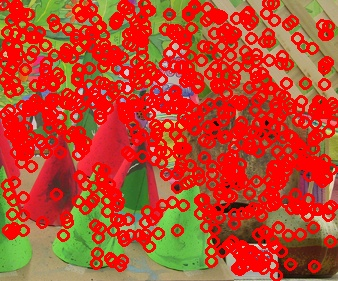
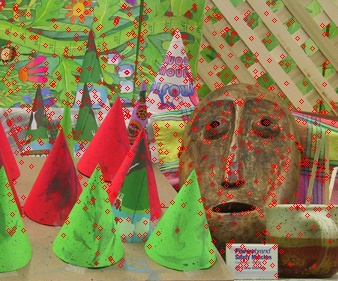
sift finished

diff --git a/inc/stereoVisionFunc.hpp b/inc/stereoVisionFunc.hpp
@@ -46,7 +46,7 @@ class StereoVision {
             Mat img1_with_points = img1.clone();
             // draw the feature points on the image
             for (int i = 0; i < points.size(); i++) {
-                circle(img1_with_points, points[i], 5, Scalar(0, 0, 255), 2);
+                circle(img1_with_points, points[i], 2, Scalar(0, 0, 255), 1);
             }
             // return the image with feature points marked on it
             cout<<"<<< drawFeaturePoints() returned"<<endl;

diff --git a/README.md b/README.md
@@ -33,6 +33,14 @@ Exploring stereo vision, by finding correspondences between left and right image
 * Scale the disparity map to the range [0, 255] and save the output as a grayscale image.
 
 ## Results
-To be added...
+* The results are shown below. The first image is the left image, the second image is the right image and the third image is the disparity map. The disparity map is scaled to the range [0, 255] and saved as a grayscale image.
+### Input
+Input Image 1             |  Input Image 2
+:-------------------------:|:-------------------------:
+![](dataset/image-3.jpeg)  |  ![](dataset/image-4.jpeg)
 
+### SIFT Features
+SIFT Features 1             |  SIFT Features 2
+:-------------------------:|:-------------------------:
+![](output/leftImageWithPoints.jpg)  |  ![](output/rightImageWithPoints.jpg)
 
